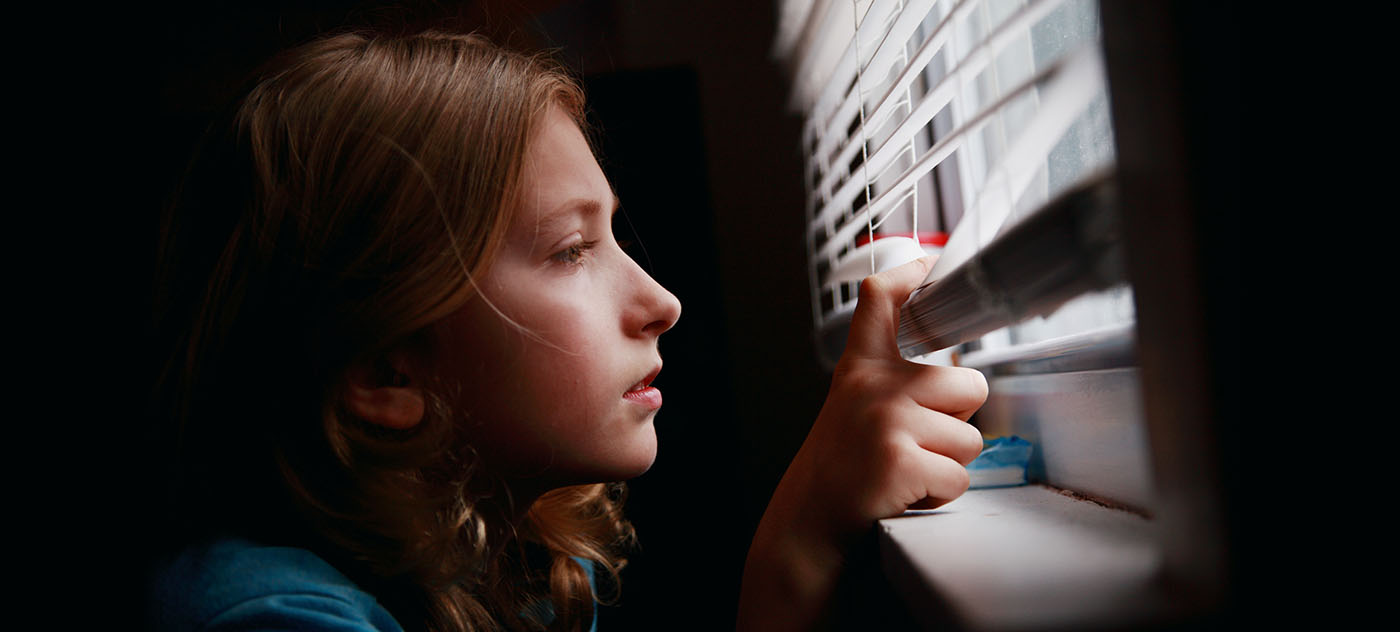
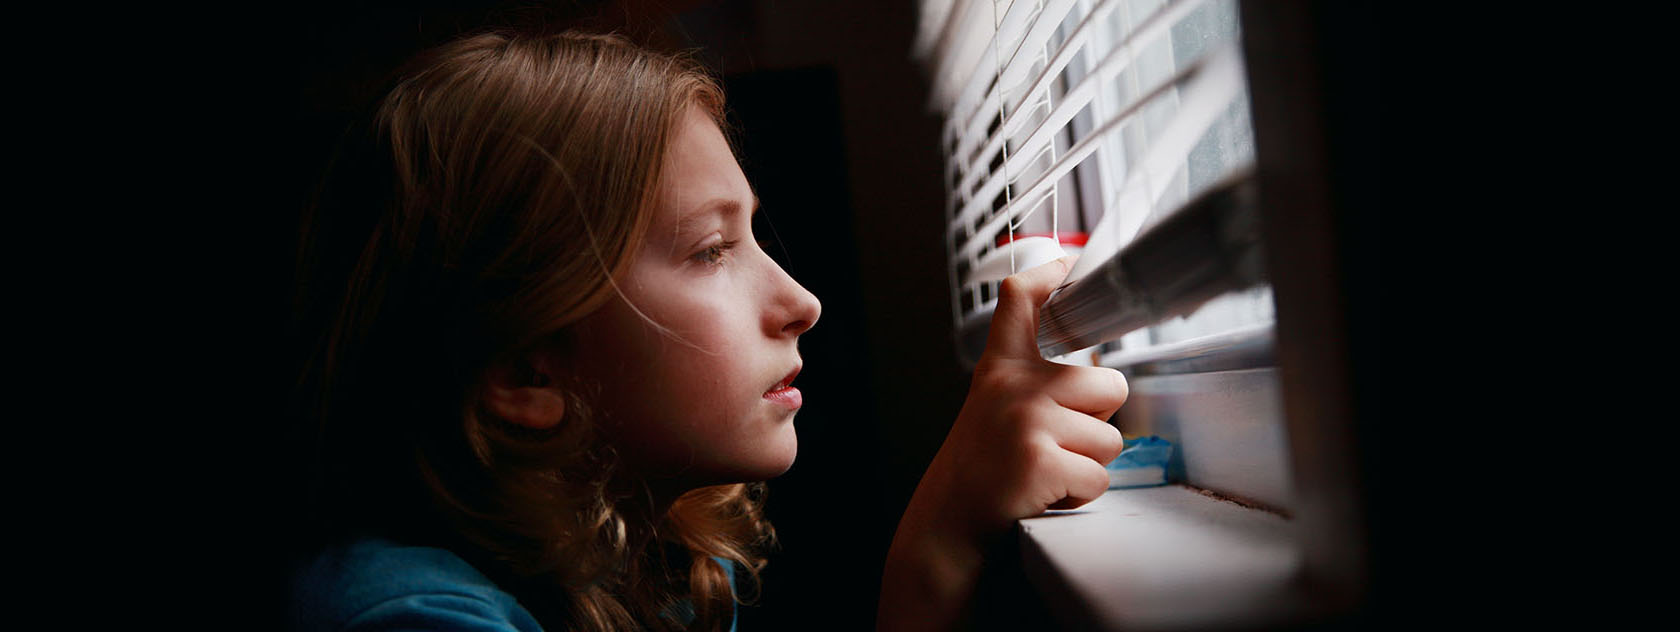
start branding

diff --git a/app/assets/stylesheets/responsive/custom.scss b/app/assets/stylesheets/responsive/custom.scss
@@ -885,8 +885,8 @@ dt {
   background-color: $color_neutral_dark;
   background-image: image-url('homepage-background-small.jpg');
   background-repeat: no-repeat;
-  background-position: center top;
-  background-size: cover;
+  background-position: left top;
+  background-size: contain;
   color: $color_white;
   padding: 2em 0 5em;
   position: relative;
@@ -942,4 +942,14 @@ dt {
 // User menu
 .pro-pill {
   background-color: desaturate(darken($color_secondary, 10%), 5%);
+}
+
+// pax starts here
+
+#country-message {
+  display: none !important;
+}
+
+#project-banner {
+  display: flex;
 }
